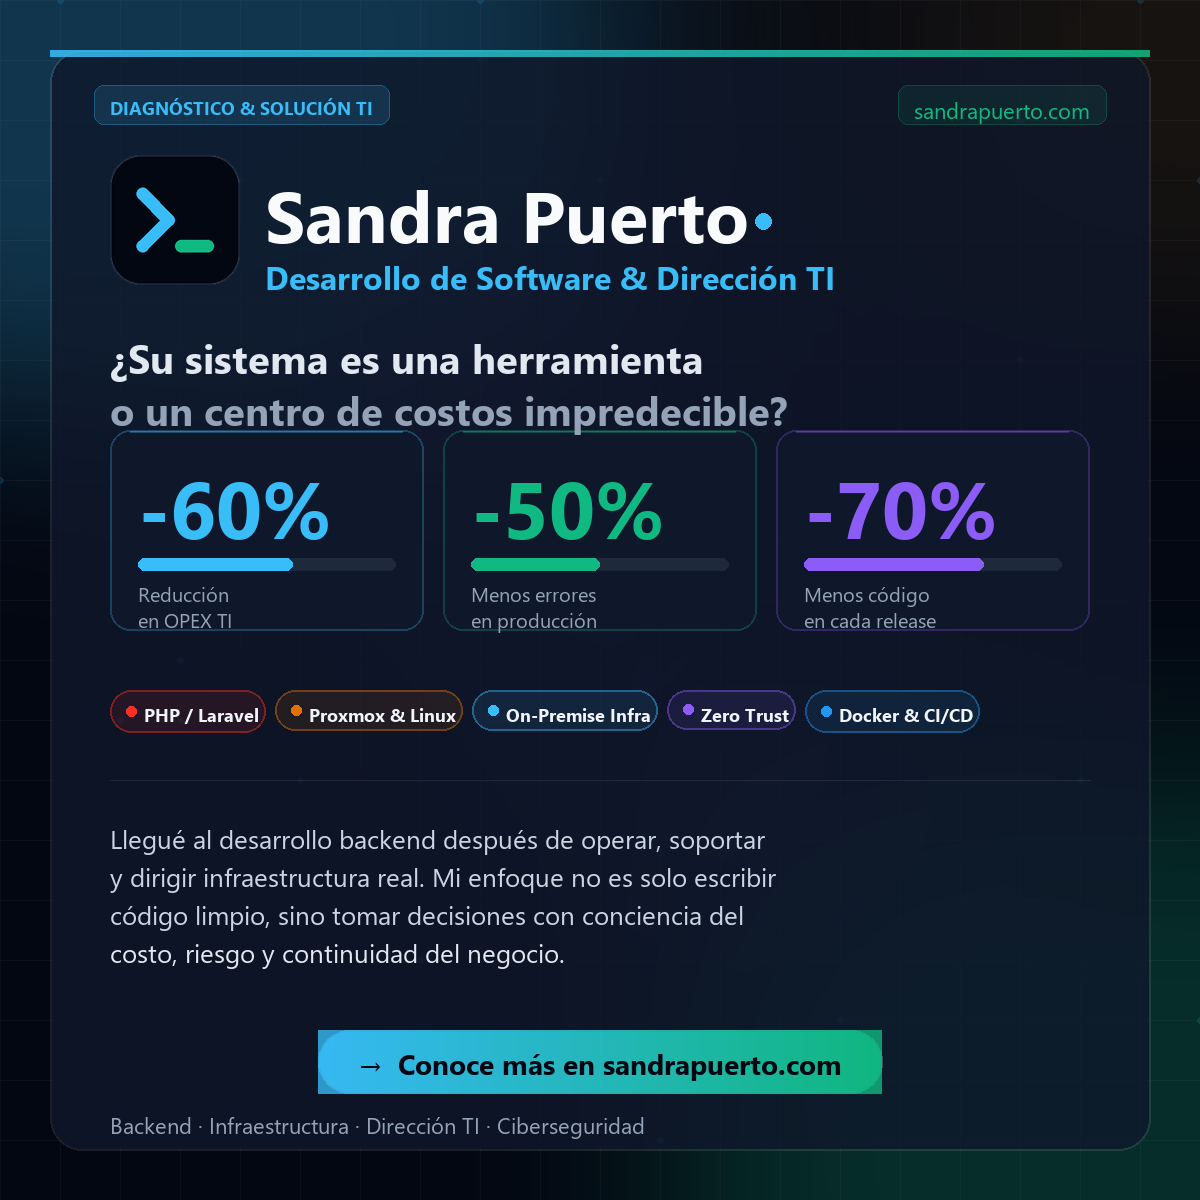
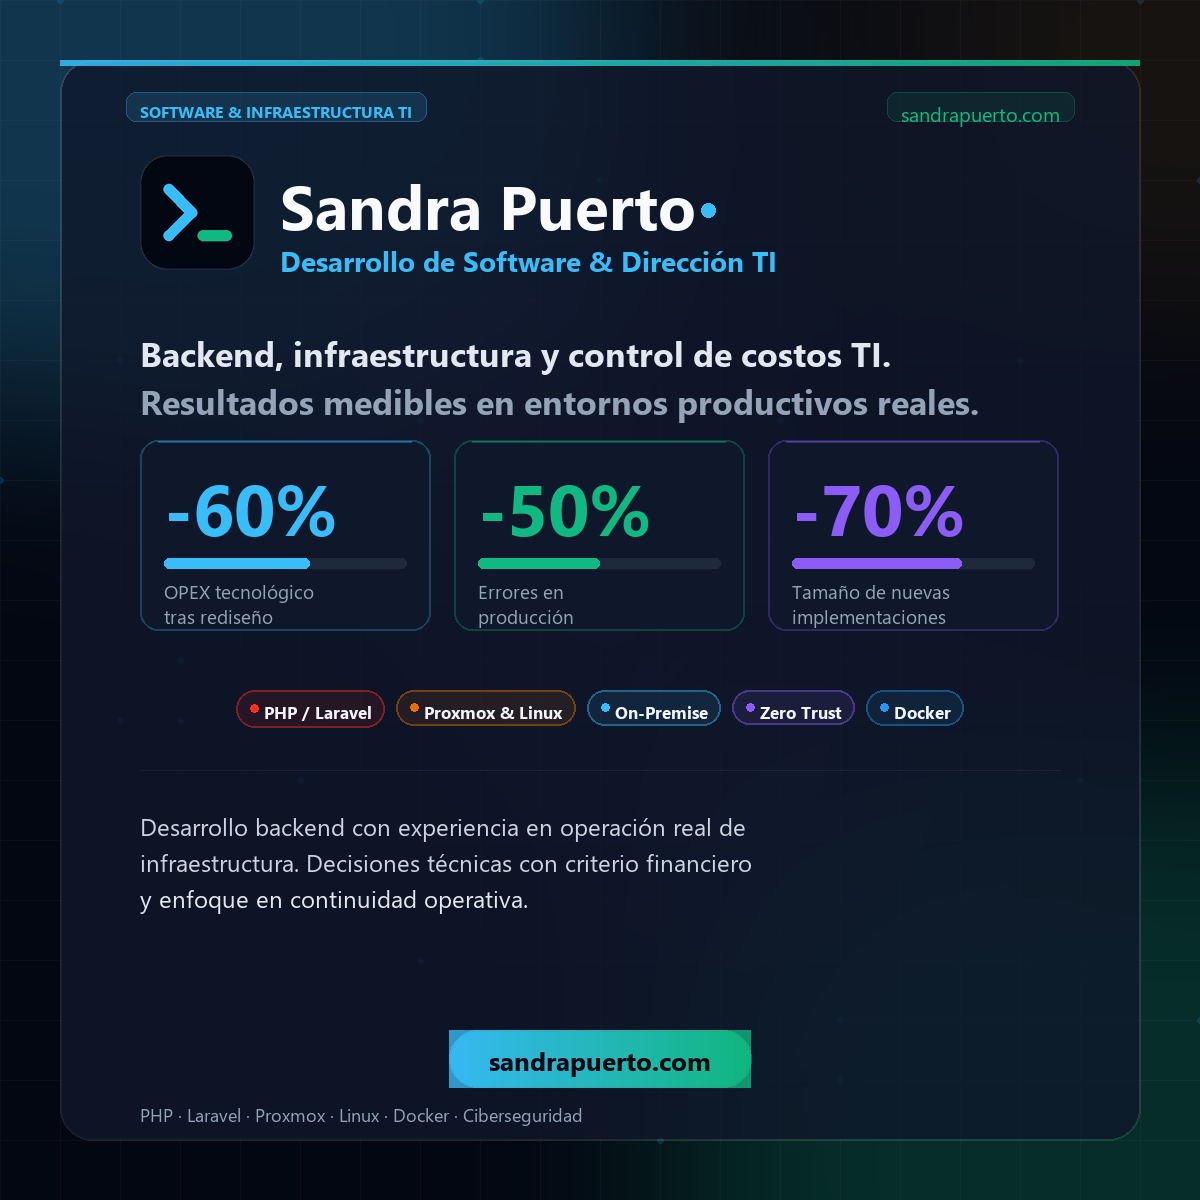
fix: linkedin cover — fix margins/spacing, rewrite copy to be professional without cringe

diff --git a/scripts/generate_assets.py b/scripts/generate_assets.py
@@ -188,18 +188,14 @@ def create_linkedin_cover():
     # ── 1. Rich multi-layered background ──
     glow = Image.new("RGBA", (W, H), (0, 0, 0, 0))
     g_draw = ImageDraw.Draw(glow)
-    # Large cyan glow top-left
     g_draw.ellipse([-200, -200, 700, 500], fill=(56, 189, 248, 65))
-    # Emerald glow bottom-right
     g_draw.ellipse([600, 700, 1500, 1500], fill=(16, 185, 129, 55))
-    # Violet accent center
     g_draw.ellipse([300, 300, 900, 900], fill=(139, 92, 246, 25))
-    # Warm amber hint top-right
     g_draw.ellipse([800, -100, 1400, 400], fill=(245, 158, 11, 20))
     glow = glow.filter(ImageFilter.GaussianBlur(120))
     base = Image.alpha_composite(base, glow)
     
-    # ── 2. Geometric grid pattern for tech feel ──
+    # ── 2. Geometric grid pattern ──
     grid_layer = Image.new("RGBA", (W, H), (0, 0, 0, 0))
     grid_draw = ImageDraw.Draw(grid_layer)
     grid_spacing = 60
@@ -207,7 +203,6 @@ def create_linkedin_cover():
         grid_draw.line([(gx, 0), (gx, H)], fill=(255, 255, 255, 8), width=1)
     for gy in range(0, H, grid_spacing):
         grid_draw.line([(0, gy), (W, gy)], fill=(255, 255, 255, 8), width=1)
-    # Highlight some intersections
     import random
     random.seed(42)
     for _ in range(25):
@@ -216,21 +211,20 @@ def create_linkedin_cover():
         grid_draw.ellipse([ix - 3, iy - 3, ix + 3, iy + 3], fill=(56, 189, 248, 40))
     base = Image.alpha_composite(base, grid_layer)
     
-    # ── 3. Main content card (glassmorphism) ──
+    # ── 3. Main content card ──
     card_layer = Image.new("RGBA", (W, H), (0, 0, 0, 0))
     c_draw = ImageDraw.Draw(card_layer)
-    margin = 50
+    margin = 60
     c_draw.rounded_rectangle([margin, margin, W - margin, H - margin], 
                              radius=32, fill=(15, 23, 42, 200), 
                              outline=(255, 255, 255, 25), width=2)
     base = Image.alpha_composite(base, card_layer)
     
-    # ── 4. Accent stripe at top of card ──
+    # ── 4. Accent stripe at top ──
     stripe = Image.new("RGBA", (W, H), (0, 0, 0, 0))
     s_draw = ImageDraw.Draw(stripe)
-    # Gradient-like stripe using overlapping rects
     stripe_y = margin
-    stripe_h = 6
+    stripe_h = 5
     for sx in range(margin, W - margin):
         ratio = (sx - margin) / (W - 2 * margin)
         r = int(56 + (16 - 56) * ratio)
@@ -241,109 +235,118 @@ def create_linkedin_cover():
     
     # ── 5. Fonts ──
     font_dir = "C:/Windows/Fonts"
-    f_tag = ImageFont.truetype(os.path.join(font_dir, "segoeuib.ttf"), 18)
-    f_name = ImageFont.truetype(os.path.join(font_dir, "segoeuib.ttf"), 72)
-    f_role = ImageFont.truetype(os.path.join(font_dir, "segoeuib.ttf"), 32)
-    f_headline = ImageFont.truetype(os.path.join(font_dir, "segoeuib.ttf"), 40)
-    f_metric_val = ImageFont.truetype(os.path.join(font_dir, "segoeuib.ttf"), 80)
-    f_metric_label = ImageFont.truetype(os.path.join(font_dir, "segoeui.ttf"), 20)
-    f_desc = ImageFont.truetype(os.path.join(font_dir, "segoeui.ttf"), 26)
-    f_tech = ImageFont.truetype(os.path.join(font_dir, "segoeuib.ttf"), 18)
-    f_url = ImageFont.truetype(os.path.join(font_dir, "segoeui.ttf"), 22)
-    f_cta = ImageFont.truetype(os.path.join(font_dir, "segoeuib.ttf"), 28)
+    f_tag = ImageFont.truetype(os.path.join(font_dir, "segoeuib.ttf"), 16)
+    f_name = ImageFont.truetype(os.path.join(font_dir, "segoeuib.ttf"), 62)
+    f_role = ImageFont.truetype(os.path.join(font_dir, "segoeuib.ttf"), 28)
+    f_headline = ImageFont.truetype(os.path.join(font_dir, "segoeuib.ttf"), 34)
+    f_metric_val = ImageFont.truetype(os.path.join(font_dir, "segoeuib.ttf"), 72)
+    f_metric_label = ImageFont.truetype(os.path.join(font_dir, "segoeui.ttf"), 19)
+    f_desc = ImageFont.truetype(os.path.join(font_dir, "segoeui.ttf"), 24)
+    f_tech = ImageFont.truetype(os.path.join(font_dir, "segoeuib.ttf"), 17)
+    f_url = ImageFont.truetype(os.path.join(font_dir, "segoeui.ttf"), 20)
+    f_cta = ImageFont.truetype(os.path.join(font_dir, "segoeuib.ttf"), 26)
+    f_bottom = ImageFont.truetype(os.path.join(font_dir, "segoeui.ttf"), 18)
     
     # ── 6. Build overlays ──
     overlay = Image.new("RGBA", (W, H), (0, 0, 0, 0))
     o_draw = ImageDraw.Draw(overlay)
     
-    lx = margin + 60  # left content x
-    rx_end = W - margin - 60  # right edge
+    pad = 80  # inner padding from card edge
+    lx = margin + pad
+    rx_end = W - margin - pad
     content_w = rx_end - lx
     
     # --- Top badge ---
-    badge_text = "DIAGNÓSTICO & SOLUCIÓN TI"
-    badge_y = margin + 45
+    badge_text = "SOFTWARE & INFRAESTRUCTURA TI"
+    badge_y = margin + 40
     bb = f_tag.getbbox(badge_text)
     bw, bh = bb[2] - bb[0], bb[3] - bb[1]
-    o_draw.rounded_rectangle([lx - 16, badge_y - 10, lx + bw + 16, badge_y + bh + 12], 
+    o_draw.rounded_rectangle([lx - 14, badge_y - 8, lx + bw + 14, badge_y + bh + 10], 
                              radius=10, fill=(56, 189, 248, 35), outline=(56, 189, 248, 100), width=1)
     
     # --- URL badge right ---
     url_text = "sandrapuerto.com"
     ub = f_url.getbbox(url_text)
     uw = ub[2] - ub[0]
-    o_draw.rounded_rectangle([rx_end - uw - 16, badge_y - 10, rx_end + 16, badge_y + bh + 12], 
+    o_draw.rounded_rectangle([rx_end - uw - 14, badge_y - 8, rx_end + 14, badge_y + bh + 10], 
                              radius=10, fill=(16, 185, 129, 25), outline=(16, 185, 129, 80), width=1)
     
-    # --- Metric cards background ---
-    metrics_y = 430
-    card_w = (content_w - 40) // 3
-    card_h = 200
+    # --- Metric cards ---
+    metrics_y = 440
+    gap = 24
+    card_w = (content_w - gap * 2) // 3
+    card_h = 190
     metric_colors = [
         (56, 189, 248),   # cyan
         (16, 185, 129),   # emerald
         (139, 92, 246),   # violet
     ]
     for i in range(3):
-        cx = lx + i * (card_w + 20)
+        cx = lx + i * (card_w + gap)
         mc = metric_colors[i]
         o_draw.rounded_rectangle([cx, metrics_y, cx + card_w, metrics_y + card_h],
-                                 radius=20, fill=(15, 23, 42, 240),
+                                 radius=18, fill=(15, 23, 42, 240),
                                  outline=(mc[0], mc[1], mc[2], 70), width=2)
-        # Top accent line on each card
-        for px in range(cx + 20, cx + card_w - 20):
+        for px in range(cx + 18, cx + card_w - 18):
             o_draw.point((px, metrics_y + 1), fill=(mc[0], mc[1], mc[2], 150))
             o_draw.point((px, metrics_y + 2), fill=(mc[0], mc[1], mc[2], 80))
     
-    # --- Tech badges background ---
+    # --- Tech badges ---
     tech_y = 690
     techs = [
         ("PHP / Laravel", (255, 45, 32)),
         ("Proxmox & Linux", (229, 112, 0)),
-        ("On-Premise Infra", (56, 189, 248)),
+        ("On-Premise", (56, 189, 248)),
         ("Zero Trust", (139, 92, 246)),
-        ("Docker & CI/CD", (36, 150, 237)),
+        ("Docker", (36, 150, 237)),
     ]
-    tx = lx
+    # Calculate total width to center the row
+    total_pills_w = 0
+    pill_sizes = []
     for t_text, t_color in techs:
         tb = f_tech.getbbox(t_text)
         tw = tb[2] - tb[0]
         th = tb[3] - tb[1]
-        pill_w = tw + 40
-        pill_h = th + 26
-        o_draw.rounded_rectangle([tx, tech_y, tx + pill_w, tech_y + pill_h],
-                                 radius=pill_h // 2, fill=(t_color[0], t_color[1], t_color[2], 25),
+        pw = tw + 40
+        ph = th + 22
+        pill_sizes.append((pw, ph, tw, th))
+        total_pills_w += pw
+    pill_gap = 12
+    total_pills_w += pill_gap * (len(techs) - 1)
+    tx_start = lx + (content_w - total_pills_w) // 2
+    tx = tx_start
+    for idx, (t_text, t_color) in enumerate(techs):
+        pw, ph, tw, th = pill_sizes[idx]
+        o_draw.rounded_rectangle([tx, tech_y, tx + pw, tech_y + ph],
+                                 radius=ph // 2, fill=(t_color[0], t_color[1], t_color[2], 25),
                                  outline=(t_color[0], t_color[1], t_color[2], 120), width=2)
-        tx += pill_w + 10
+        tx += pw + pill_gap
     
-    # --- Divider line ---
-    div_y = 780
-    o_draw.line([(lx, div_y), (rx_end, div_y)], fill=(255, 255, 255, 20), width=1)
+    # --- Divider ---
+    div_y = 770
+    o_draw.line([(lx, div_y), (rx_end, div_y)], fill=(255, 255, 255, 15), width=1)
     
-    # --- CTA button background ---
+    # --- CTA button ---
     cta_y = 1030
-    cta_text = "→  Conoce más en sandrapuerto.com"
+    cta_text = "sandrapuerto.com"
     ctb = f_cta.getbbox(cta_text)
     ctw = ctb[2] - ctb[0]
     cth = ctb[3] - ctb[1]
     cta_btn_w = ctw + 80
-    cta_btn_h = cth + 36
+    cta_btn_h = cth + 32
     cta_x = (W - cta_btn_w) // 2
-    # Gradient-like button fill
     for bx in range(cta_x, cta_x + cta_btn_w):
         ratio = (bx - cta_x) / cta_btn_w
         r = int(56 + (16 - 56) * ratio)
         g = int(189 + (185 - 189) * ratio)
         b = int(248 + (129 - 248) * ratio)
         o_draw.line([(bx, cta_y), (bx, cta_y + cta_btn_h)], fill=(r, g, b, 200))
-    # Round the corners by overlaying rounded rect outline
     o_draw.rounded_rectangle([cta_x, cta_y, cta_x + cta_btn_w, cta_y + cta_btn_h],
                              radius=cta_btn_h // 2, outline=(255, 255, 255, 60), width=2)
-    # Mask corners: draw background-colored rects in corners then re-draw rounded
     
     base = Image.alpha_composite(base, overlay)
     
-    # ── 7. CTA button proper (with mask) ──
+    # ── 7. CTA button mask ──
     btn_mask = Image.new("RGBA", (W, H), (0, 0, 0, 0))
     bm_draw = ImageDraw.Draw(btn_mask)
     for bx in range(cta_x, cta_x + cta_btn_w):
@@ -352,12 +355,10 @@ def create_linkedin_cover():
         g = int(189 + (185 - 189) * ratio)
         b = int(248 + (129 - 248) * ratio)
         bm_draw.line([(bx, cta_y), (bx, cta_y + cta_btn_h)], fill=(r, g, b, 230))
-    # Create mask from rounded rect
     mask_img = Image.new("L", (W, H), 0)
     mask_draw = ImageDraw.Draw(mask_img)
     mask_draw.rounded_rectangle([cta_x, cta_y, cta_x + cta_btn_w, cta_y + cta_btn_h],
                                 radius=cta_btn_h // 2, fill=255)
-    # Composite with mask
     base = Image.composite(Image.alpha_composite(base, btn_mask), base, mask_img)
     
     # ── 8. Draw all text ──
@@ -369,82 +370,70 @@ def create_linkedin_cover():
     
     # Icon
     icon_img = create_base_icon(256)
-    icon_resized = icon_img.resize((130, 130), Image.Resampling.LANCZOS)
-    icon_y = margin + 105
+    icon_resized = icon_img.resize((115, 115), Image.Resampling.LANCZOS)
+    icon_y = margin + 95
     base.paste(icon_resized, (lx, icon_y), icon_resized)
     
     # Name
-    name_x = lx + 155
-    name_y = icon_y + 10
+    name_x = lx + 140
+    name_y = icon_y + 8
     draw.text((name_x, name_y), "Sandra Puerto", font=f_name, fill="#f8fafc")
     sp_bbox = f_name.getbbox("Sandra Puerto")
-    dot_x = name_x + (sp_bbox[2] - sp_bbox[0]) + 6
-    draw.ellipse([dot_x, name_y + 48, dot_x + 16, name_y + 64], fill="#38bdf8")
+    dot_x = name_x + (sp_bbox[2] - sp_bbox[0]) + 5
+    draw.ellipse([dot_x, name_y + 40, dot_x + 14, name_y + 54], fill="#38bdf8")
     
     # Role
-    draw.text((name_x, name_y + 90), "Desarrollo de Software & Dirección TI", font=f_role, fill="#38bdf8")
+    draw.text((name_x, name_y + 78), "Desarrollo de Software & Dirección TI", font=f_role, fill="#38bdf8")
     
-    # Headline
+    # Headline — professional, direct, no drama
     headline_y = 330
-    draw.text((lx, headline_y), "¿Su sistema es una herramienta", font=f_headline, fill="#e2e8f0")
-    draw.text((lx, headline_y + 52), "o un centro de costos impredecible?", font=f_headline, fill="#94a3b8")
+    draw.text((lx, headline_y), "Backend, infraestructura y control de costos TI.", font=f_headline, fill="#e2e8f0")
+    draw.text((lx, headline_y + 48), "Resultados medibles en entornos productivos reales.", font=f_headline, fill="#94a3b8")
     
     # ── Metrics ──
     metric_data = [
-        ("-60%", "Reducción\nen OPEX TI", (56, 189, 248), 0.60),
-        ("-50%", "Menos errores\nen producción", (16, 185, 129), 0.50),
-        ("-70%", "Menos código\nen cada release", (139, 92, 246), 0.70),
+        ("-60%", "OPEX tecnológico\ntras rediseño", (56, 189, 248), 0.60),
+        ("-50%", "Errores en\nproducción", (16, 185, 129), 0.50),
+        ("-70%", "Tamaño de nuevas\nimplementaciones", (139, 92, 246), 0.70),
     ]
     
     for i, (val, label, color, pct) in enumerate(metric_data):
-        cx = lx + i * (card_w + 20)
-        # Metric value
-        draw.text((cx + 28, metrics_y + 22), val, font=f_metric_val, fill=color)
-        # Progress bar
-        bar_y = metrics_y + 128
-        bar_w = card_w - 56
-        draw_filled_bar(draw, cx + 28, bar_y, bar_w, 12, 6, pct, 
+        cx = lx + i * (card_w + gap)
+        draw.text((cx + 24, metrics_y + 18), val, font=f_metric_val, fill=color)
+        bar_y = metrics_y + 118
+        bar_w = card_w - 48
+        draw_filled_bar(draw, cx + 24, bar_y, bar_w, 10, 5, pct, 
                        color + (200,), (30, 41, 59, 180))
-        # Label
-        draw.text((cx + 28, bar_y + 22), label, font=f_metric_label, fill="#94a3b8")
+        draw.text((cx + 24, bar_y + 20), label, font=f_metric_label, fill="#94a3b8")
     
     # ── Tech badges text ──
-    tx = lx
-    for t_text, t_color in techs:
-        tb = f_tech.getbbox(t_text)
-        tw = tb[2] - tb[0]
-        th = tb[3] - tb[1]
-        pill_w = tw + 40
-        pill_h = th + 26
-        # Colored dot
-        dot_cy = tech_y + pill_h // 2
-        draw.ellipse([tx + 16, dot_cy - 5, tx + 26, dot_cy + 5], fill=t_color)
-        # Text
-        draw.text((tx + 34, tech_y + 12), t_text, font=f_tech, fill="#f1f5f9")
-        tx += pill_w + 10
+    tx = tx_start
+    for idx, (t_text, t_color) in enumerate(techs):
+        pw, ph, tw, th = pill_sizes[idx]
+        dot_cy = tech_y + ph // 2
+        draw.ellipse([tx + 14, dot_cy - 4, tx + 22, dot_cy + 4], fill=t_color)
+        draw.text((tx + 28, tech_y + 10), t_text, font=f_tech, fill="#f1f5f9")
+        tx += pw + pill_gap
     
-    # ── Description block ──
-    desc_y = 820
+    # ── Description — short, factual, no self-praise ──
+    desc_y = 810
     draw.text((lx, desc_y), 
-              "Llegué al desarrollo backend después de operar, soportar", 
+              "Desarrollo backend con experiencia en operación real de", 
               font=f_desc, fill="#cbd5e1")
-    draw.text((lx, desc_y + 38), 
-              "y dirigir infraestructura real. Mi enfoque no es solo escribir",
+    draw.text((lx, desc_y + 36), 
+              "infraestructura. Decisiones técnicas con criterio financiero",
               font=f_desc, fill="#cbd5e1")
-    draw.text((lx, desc_y + 76),
-              "código limpio, sino tomar decisiones con conciencia del",
-              font=f_desc, fill="#cbd5e1")
-    draw.text((lx, desc_y + 114),
-              "costo, riesgo y continuidad del negocio.",
+    draw.text((lx, desc_y + 72),
+              "y enfoque en continuidad operativa.",
               font=f_desc, fill="#e2e8f0")
     
     # ── CTA button text ──
-    draw.text((cta_x + 40, cta_y + 14), cta_text, font=f_cta, fill="#030712")
+    draw.text((cta_x + 40, cta_y + 12), cta_text, font=f_cta, fill="#030712")
     
     # ── Bottom bar ──
-    bottom_y = H - margin - 40
-    draw.text((lx, bottom_y), "Backend · Infraestructura · Dirección TI · Ciberseguridad", 
-              font=f_url, fill=(148, 163, 184, 150))
+    bottom_y = H - margin - 38
+    draw.text((lx, bottom_y), "PHP · Laravel · Proxmox · Linux · Docker · Ciberseguridad", 
+              font=f_bottom, fill=(148, 163, 184, 120))
     
     # ── Save ──
     out_dir = os.path.abspath(os.path.join(base_dir, ".."))
